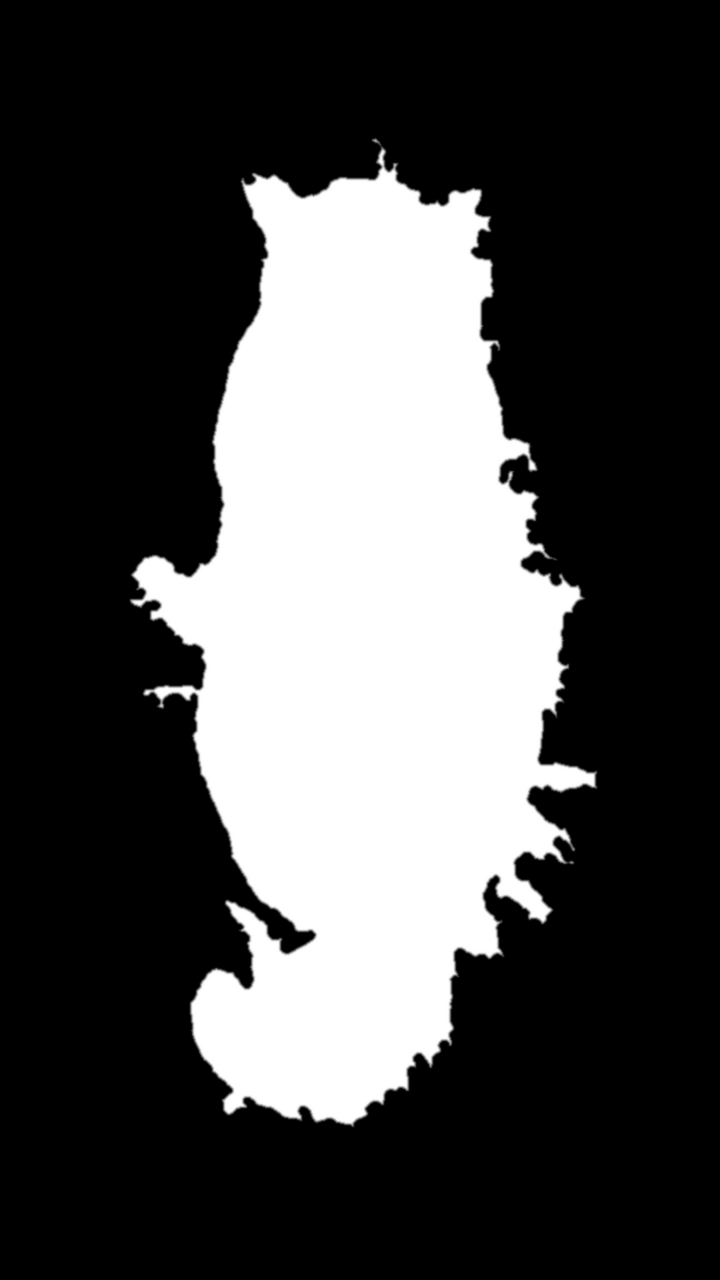
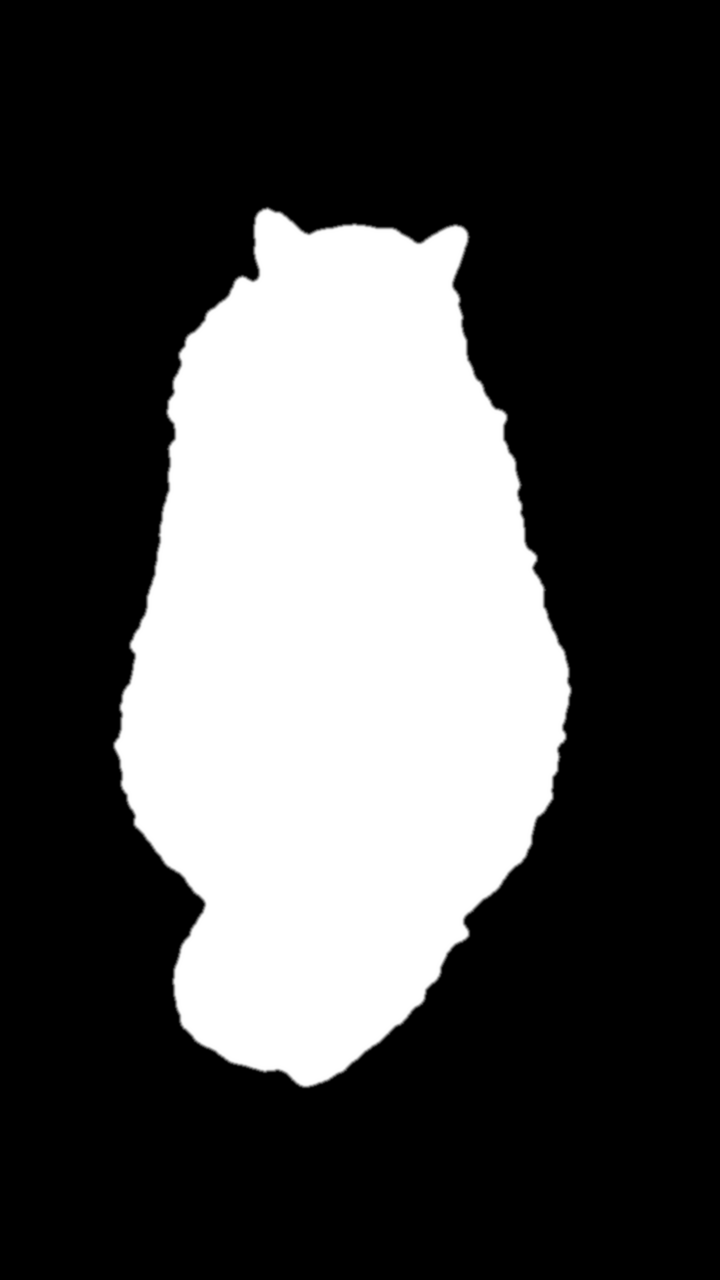
Smooth the calico flank and keep the top buttons under the status bar.
The calico matte was a texture edge that clipped the right black patch and left bites in the fur. Use the shared silhouette instead, grown a few pixels and feathered. Pad the controls from the window safe area, and set the 9:41 status bar before every screenshot launch.

Changed region(s): [[0.1528, 0.0938, 0.825, 0.875]]

diff --git a/PurrPat/Views/PetScreen.swift b/PurrPat/Views/PetScreen.swift
@@ -11,6 +11,8 @@ struct PetScreen: View {
     @State private var showSettings = false
     @State private var showPaywall = false
     @State private var paywallAfterSettings = false
+    /// Window insets. A SwiftUI safe-area read inside `ignoresSafeArea` is 0, so this starts at a status-bar height and only updates from the window.
+    @State private var windowInsets = UIEdgeInsets(top: 59, left: 0, bottom: 34, right: 0)
     @Environment(\.scenePhase) private var scenePhase
 
     var body: some View {
@@ -27,6 +29,13 @@ struct PetScreen: View {
                         .opacity(session.handOpacity)
                 }
                 heart(in: size)
+                VStack(spacing: 0) {
+                    topControls
+                        .padding(.top, windowInsets.top)
+                    Spacer()
+                    bottomControls
+                        .padding(.bottom, windowInsets.bottom)
+                }
             }
             .onAppear { session.placeDemoHand(in: size, settings: settings) }
             .onChange(of: size) { _, newSize in
@@ -34,8 +43,12 @@ struct PetScreen: View {
             }
         }
         .ignoresSafeArea()
-        .safeAreaInset(edge: .top, spacing: 0) { topControls }
-        .safeAreaInset(edge: .bottom, spacing: 0) { bottomControls }
+        .background {
+            WindowSafeAreaProbe { insets in
+                guard insets.top > 1 else { return }
+                if insets != windowInsets { windowInsets = insets }
+            }
+        }
         .preferredColorScheme(settings.scene == .night ? .dark : .light)
         .onAppear(perform: appear)
         .onChange(of: scenePhase) { _, phase in
@@ -163,7 +176,7 @@ struct PetScreen: View {
             .accessibilityHidden(true)
     }
 
-    /// Outside the full-bleed reader, so these sit below the status bar.
+    /// Padded by the window's safe area, so a zero SwiftUI inset cannot slide these under the status bar.
     private var topControls: some View {
         HStack(spacing: 8) {
             Spacer()
@@ -183,7 +196,7 @@ struct PetScreen: View {
         .padding(.bottom, 4)
     }
 
-    /// Outside the full-bleed reader, so the coat bar clears the home indicator.
+    /// Padded by the window's bottom inset, so the coat bar clears the home indicator.
     private var bottomControls: some View {
         VStack(spacing: 0) {
             if !settings.hasStroked && DemoShot.current == nil {
@@ -285,5 +298,50 @@ struct PetScreen: View {
             pop.permittedArrowDirections = .up
         }
         top.present(controller, animated: true)
+    }
+}
+
+/// Reads `UIWindow.safeAreaInsets`. SwiftUI reports 0 for a view that ignores the safe area.
+private struct WindowSafeAreaProbe: UIViewRepresentable {
+    var onChange: (UIEdgeInsets) -> Void
+
+    func makeUIView(context: Context) -> Probe { Probe(onChange: onChange) }
+
+    func updateUIView(_ uiView: Probe, context: Context) {
+        uiView.onChange = onChange
+        uiView.publish()
+    }
+
+    final class Probe: UIView {
+        var onChange: (UIEdgeInsets) -> Void
+
+        init(onChange: @escaping (UIEdgeInsets) -> Void) {
+            self.onChange = onChange
+            super.init(frame: .zero)
+            isUserInteractionEnabled = false
+            backgroundColor = .clear
+        }
+
+        required init?(coder: NSCoder) { fatalError("init(coder:) has not been implemented") }
+
+        override func didMoveToWindow() {
+            super.didMoveToWindow()
+            publish()
+        }
+
+        override func layoutSubviews() {
+            super.layoutSubviews()
+            publish()
+        }
+
+        override func safeAreaInsetsDidChange() {
+            super.safeAreaInsetsDidChange()
+            publish()
+        }
+
+        func publish() {
+            let insets = window?.safeAreaInsets ?? safeAreaInsets
+            onChange(insets)
+        }
     }
 }

diff --git a/PurrPatUITests/ScreenshotTests.swift b/PurrPatUITests/ScreenshotTests.swift
@@ -19,6 +19,7 @@ final class ScreenshotTests: XCTestCase {
         ]
         for (file, language, locale) in locales {
             for shot in ["day", "night", "coats", "paywall"] {
+                Self.lockStatusBar()
                 let app = XCUIApplication()
                 app.launchArguments = ["-PurrPatShot", shot, "-PurrPatCPU", "-AppleLanguages", "(\(language))", "-AppleLocale", locale]
                 if shot == "night" {
@@ -50,6 +51,19 @@ final class ScreenshotTests: XCTestCase {
                 try data.write(to: directory.appendingPathComponent("\(file)-\(shot).png"))
                 app.terminate()
             }
+        }
+    }
+
+    /// The simulator clock is set once before xcodebuild. A later launch was captured with the real time, so set 9:41 again before every shot.
+    private static func lockStatusBar() {
+        let task = Process()
+        task.executableURL = URL(fileURLWithPath: "/usr/bin/xcrun")
+        task.arguments = ["simctl", "status_bar", "booted", "override", "--time", "9:41", "--batteryState", "charged", "--batteryLevel", "100", "--cellularMode", "active", "--cellularBars", "4"]
+        do {
+            try task.run()
+            task.waitUntilExit()
+        } catch {
+            // The workflow also sets the override before xcodebuild.
         }
     }
 

diff --git a/tools/make_plate_masks.py b/tools/make_plate_masks.py
@@ -79,49 +79,12 @@ def lighting_diff(cat: np.ndarray, empty: np.ndarray, outside: np.ndarray) -> np
     return np.abs(cat_f - corrected).max(axis=2)
 
 
-def _luminance(image: np.ndarray) -> np.ndarray:
-    blue, green, red = cv2.split(image.astype(np.float32))
-    return 0.114 * blue + 0.587 * green + 0.299 * red
-
-
-def lighting_corrected(cat: np.ndarray, empty: np.ndarray, outside: np.ndarray) -> np.ndarray:
-    """Same fit as lighting_diff, returned as the cushion relit to the plate."""
-    cat_f = cat.astype(np.float32)
-    empty_f = empty.astype(np.float32)
-    height, width = cat.shape[:2]
-    small = (width // 4, height // 4)
-    weight = cv2.resize(outside.astype(np.float32), small, interpolation=cv2.INTER_AREA)
-    gain = np.ones_like(cat_f)
-    for channel in range(3):
-        num = cv2.GaussianBlur(cv2.resize(cat_f[:, :, channel] * outside, small, interpolation=cv2.INTER_AREA), (0, 0), 8)
-        den = cv2.GaussianBlur(cv2.resize(empty_f[:, :, channel] * outside, small, interpolation=cv2.INTER_AREA), (0, 0), 8)
-        blurred = cv2.GaussianBlur(weight, (0, 0), 8) + 1e-3
-        fitted = np.clip((num / blurred) / (den / blurred + 1e-3), 0.5, 2.2)
-        gain[:, :, channel] = cv2.resize(fitted, (width, height), interpolation=cv2.INTER_LINEAR)
-    return np.clip(empty_f * gain, 0, 255)
-
-
-def _local_std(values: np.ndarray) -> np.ndarray:
-    blurred = cv2.GaussianBlur(values, (0, 0), 2.2)
-    squared = cv2.GaussianBlur(values * values, (0, 0), 2.2)
-    return np.sqrt(np.maximum(squared - blurred * blurred, 0.0))
-
-
 def segment_calico(cat: np.ndarray, empty: np.ndarray, black_mask: np.ndarray) -> np.ndarray:
-    """Fur only. Cloth that is merely darker is the window shadow, and a wide close was bridging the tail crook."""
-    outside = cv2.dilate(black_mask, cv2.getStructuringElement(cv2.MORPH_ELLIPSE, (31, 31))) == 0
-    corrected = lighting_corrected(cat, empty, outside.astype(np.float32))
-    diff = cv2.GaussianBlur(np.abs(cat.astype(np.float32) - corrected).max(axis=2), (0, 0), 0.8)
-    fur_lum = _luminance(cat)
-    cloth_lum = _luminance(corrected)
-    saturation = cat.max(axis=2).astype(np.float32) - cat.min(axis=2).astype(np.float32)
-    textured = _local_std(fur_lum) > _local_std(cloth_lum) + 3.5
-    fur = textured | (fur_lum > cloth_lum + 12) | (saturation > 32) | (fur_lum < 68)
-    raw = ((diff > 24) & fur).astype(np.uint8)
-    small = cv2.getStructuringElement(cv2.MORPH_ELLIPSE, (3, 3))
-    raw = cv2.morphologyEx(raw, cv2.MORPH_OPEN, small, iterations=1)
-    raw = cv2.morphologyEx(raw, cv2.MORPH_CLOSE, cv2.getStructuringElement(cv2.MORPH_ELLIPSE, (5, 5)), iterations=1)
-    return largest(fill_small_holes(raw, 10**9))
+    """The shared pose, grown a few pixels. A texture edge was cutting the right flank into bites and a hard clip."""
+    del cat, empty
+    grown = cv2.dilate(black_mask, cv2.getStructuringElement(cv2.MORPH_ELLIPSE, (13, 13)))
+    soft = cv2.GaussianBlur(grown.astype(np.float32), (0, 0), 1.4)
+    return largest((soft > 0.5).astype(np.uint8))
 
 
 def refine(binary: np.ndarray, erode_px: int = 3, feather: float = 2.6) -> tuple[np.ndarray, np.ndarray]:
@@ -194,7 +157,10 @@ def main() -> None:
         else:
             binary = segment_diff(cat, empty, 40, 16, 5)
         # Light fur is already close to the cloth, so erode less or the body opens up.
-        tight, alpha = refine(binary, erode_px=1 if name == "calico" else 2 if name in LIGHT else 3)
+        if name == "calico":
+            tight, alpha = refine(binary, erode_px=1, feather=3.2)
+        else:
+            tight, alpha = refine(binary, erode_px=2 if name in LIGHT else 3)
         cleaned = match_edge_light(cat, empty, tight, alpha)
         cv2.imwrite(str(folder / f"mask-{name}.png"), (alpha * 255.0).astype(np.uint8))
         cv2.imwrite(str(folder / f"plate-{name}.jpg"), cleaned, [int(cv2.IMWRITE_JPEG_QUALITY), 95])
